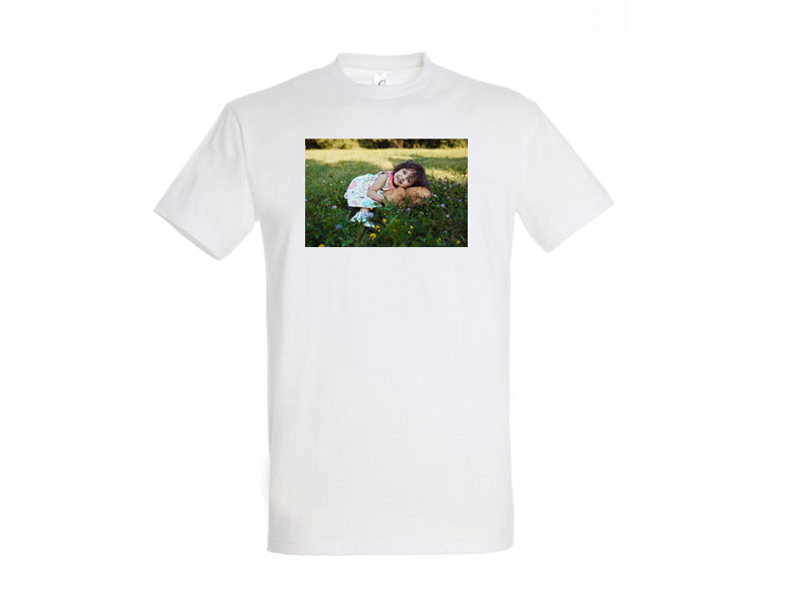
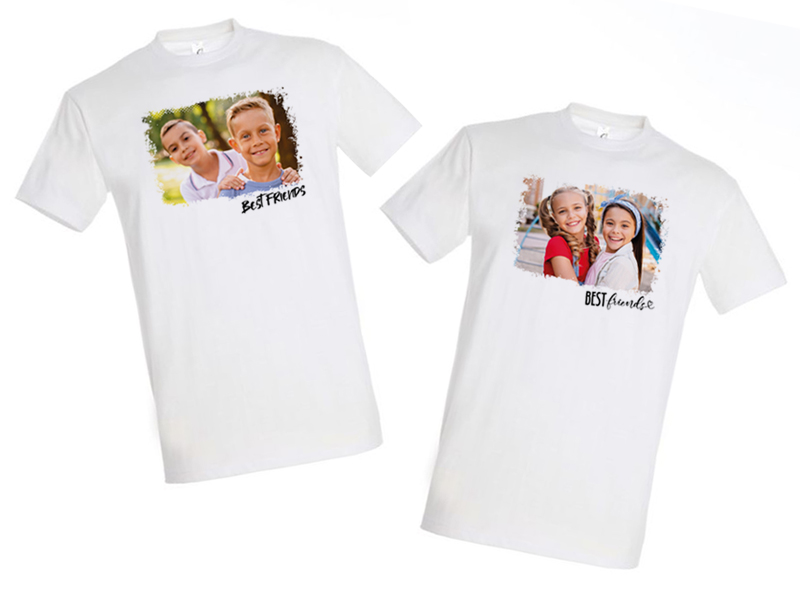
refresh-products

diff --git a/index.html b/index.html
@@ -57,11 +57,12 @@
       </div>
 
       <div class="product">
-        <img class="product__pic" src="assets/mug_heart.jpg" alt="Fényképes bögre szív">
-        <h4>Fényképes bögre</h4>
-        <p class="product__text">Kerámia bögre</p>
-        <p>szív alakú füllel</p>
-        <p>(300 ml)</p>
+        <img class="product__pic" src="assets/mug_friends.jpg" alt="Fényképes bögre szív">
+        <h4>Páros bögre "Best friends"</h4>
+        <p class="product__text">2 db-os bögre szett</p>
+        <p>Egyik oldalán grafika, másik oldalán fotó</p>
+        <p>Fiús vagy lányos minta</p>
+        <p>A két bögre egyforma vagy két eltérő fotóval is kérhető</p>
       </div>
 
       <div class="product">
@@ -127,9 +128,10 @@
 
       <div class="product">
         <img class="product__pic" src="assets/tshirt.jpg" alt="Póló">
-        <h4>Fényképes póló</h4>
+        <h4>Fényképes póló "Best friends"</h4>
         <p class="product__text">Fehér színű, 100% pamut póló</p>
         <p>gyermek és felnőtt méretben</p>
+        <p>Fiús vagy lányos "kerettel"</p>
         <br>
         <a class="size" target=”_blank” href="assets/size.pdf">Mérettáblázat</a>
       </div>
